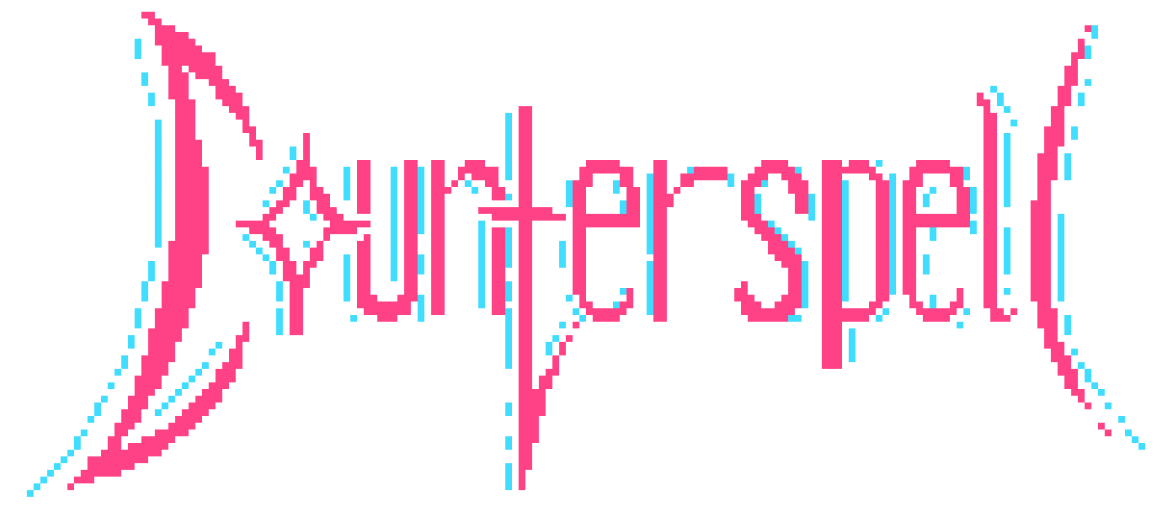
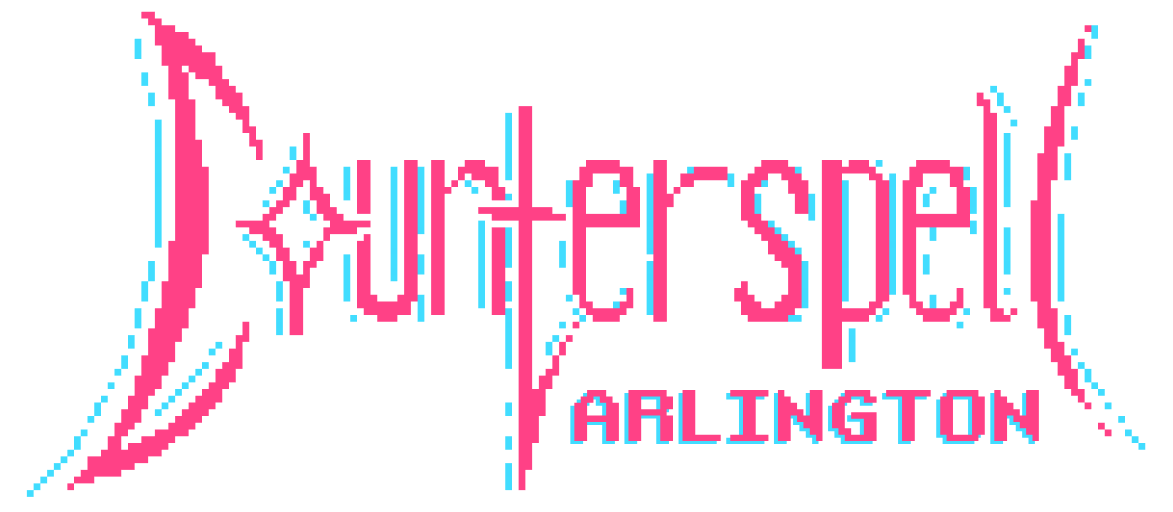
Remove city name display from Hero component and update event schedule timings in Schedule component

Changed region(s): [[0.4604, 0.75, 0.89, 0.875]]

diff --git a/components/Arlington/Hero.js b/components/Arlington/Hero.js
@@ -70,10 +70,6 @@ function HeroScroll() {
             className="absolute h-auto top-0 lg:top-[5%] w-full lg:scale-[130%] translate-x-[1%] hue-rot"
           />
 
-          <p className="hero-city-name text-pink">
-            ARLINGTON
-          </p>
-
           <div className="hidden absolute top-[90%] lg:top-[145%] left-[9%] w-[80%] lg:scale-[130%] bg-[#090808] h-screen" />
 
           <div className="flex items-center justify-center text-center">
@@ -130,19 +126,6 @@ function HeroScroll() {
           alt=""
         />
       </div>
-
-      <style jsx>{`
-        .hero-city-name {
-          font-size: 4em;
-          font-family: "retro";
-          text-shadow: -5px 1px 0px #41ddff;
-          position: absolute;
-          top: 50%;
-          left: 50%;
-          transform: translate(-5%, -150%);
-          z-index: 10;
-        }
-        `}</style>
     </>
   );
 }

diff --git a/components/Arlington/Schedule.js b/components/Arlington/Schedule.js
@@ -3,13 +3,10 @@ export default function Schedule() {
     { time: "10:00 AM", event: "Arrival" },
     { time: "11:00 AM", event: "Kickoff" },
     { time: "12:00 PM", event: "Lunch" },
-    { time: "3:00 PM", event: "Workshop 1" },
+    { time: "1:00 PM", event: "Workshop" },
     { time: "6:00 PM", event: "Dinner" },
-    { time: "9:00 PM", event: "Workshop 2" },
-    { time: "12:00 AM", event: "Midnight activity?" },
-    { time: "7:00 AM", event: "Breakfast" },
-    { time: "8:00 AM", event: "Judging" },
-    { time: "10:00 AM", event: "Winners announced" },
+    { time: "10:00 PM", event: "Judging" },
+    { time: "11:00 PM", event: "Winners announced" },
   ];
 
   return (
